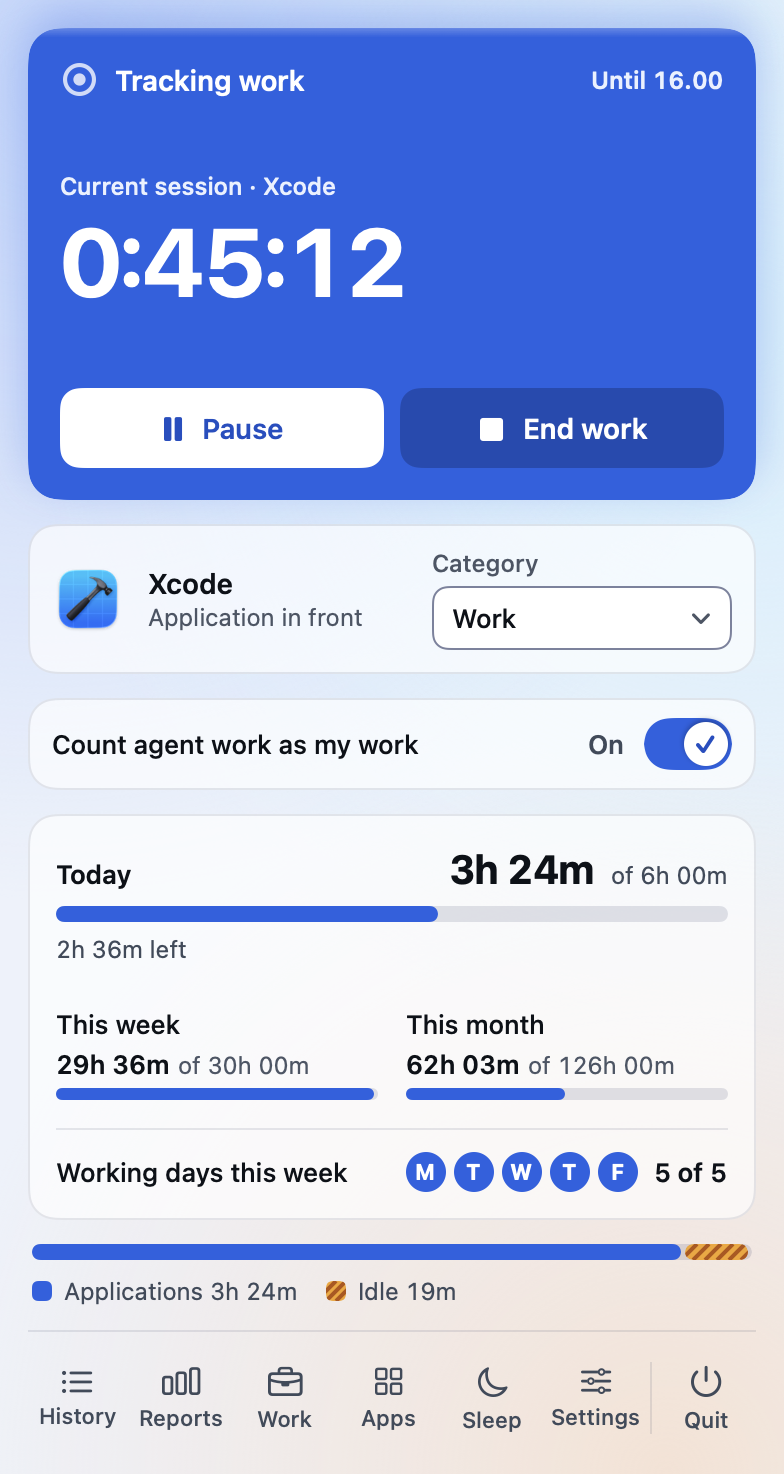
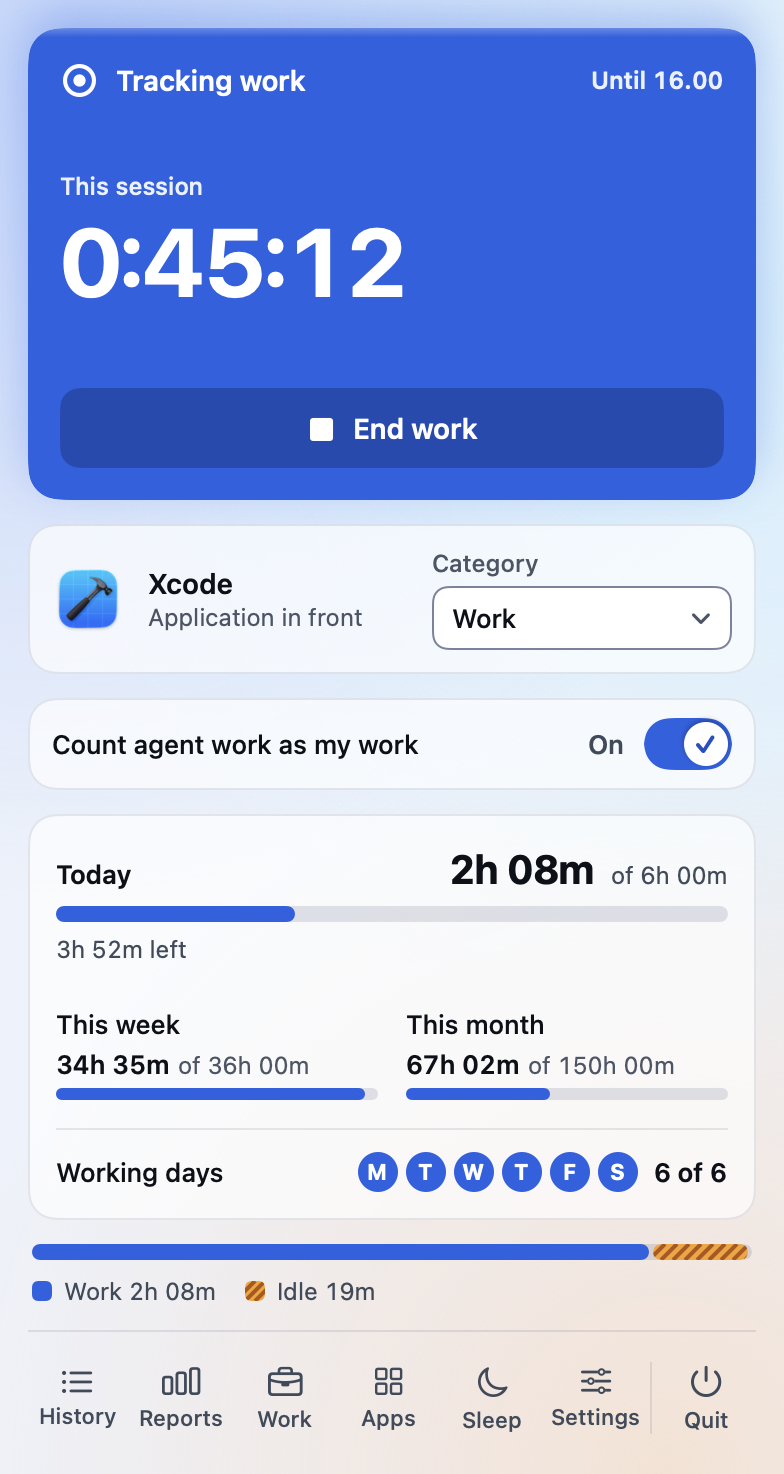
Refresh the README pictures without Pause
- popover.png and states.png show "This session" and one End work button;
  the alt texts follow (eight status cards).
- demo-data.py --weekend makes Saturday a work day, so the pictures can be
  made on a weekend with a TZ where it is morning.
- The demo overtime card shows 42 minutes after a 16.00 end (snapshots only).

diff --git a/Sources/WorkPulse/Snapshots.swift b/Sources/WorkPulse/Snapshots.swift
@@ -89,7 +89,15 @@ extension AppModel {
             isOvertime = overtime
             agentWorking = agent
             suggestion = ask ? Suggestion(app: "Xcode", minutes: 12) : nil
+            // The overtime card as it looks after work hours: 42 minutes after a 16.00 end.
+            let saved = (workHoursEnd, lastWorkHoursEnd, summary.overtime)
+            if overtime {
+                workHoursEnd = nil
+                lastWorkHoursEnd = Calendar.current.date(bySettingHour: 16, minute: 0, second: 0, of: Date())
+                summary.overtime = 42 * 60
+            }
             heroes.append(hero)
+            (workHoursEnd, lastWorkHoursEnd, summary.overtime) = saved
         }
         summary.sessionWork = 2712
         idleSince = Date().addingTimeInterval(-900)

diff --git a/scripts/demo-data.py b/scripts/demo-data.py
@@ -10,14 +10,18 @@ writes <folder>/demo-data (a WorkPulse data folder with 75 days of sample sessio
         .build/debug/WorkPulse --snapshot <folder>/out
 
 Run both commands during the work hours of a work day (08.00 to 16.00, Monday to Friday),
-or give both the same TZ, for example TZ=America/Phoenix.
+or give both the same TZ, for example TZ=America/Phoenix. On a weekend everywhere, add --weekend:
+Saturday is then a work day too, so the pictures can be made with a TZ where it is morning.
 
 With --holiday, today is a holiday that WorkPulse did not know: work from 08.00 to 10.00, then
 Safari. Render it with WORKPULSE_DEMO_APP="com.apple.Safari:Safari" for the day-off pictures.
 """
 import sqlite3, os, sys, json, time, datetime, shutil
 holiday = '--holiday' in sys.argv
-args = [a for a in sys.argv[1:] if a != '--holiday']
+weekend = '--weekend' in sys.argv
+args = [a for a in sys.argv[1:] if a not in ('--holiday', '--weekend')]
+work_days = [2, 3, 4, 5, 6, 7] if weekend else [2, 3, 4, 5, 6]
+work_mask = sum(1 << (d - 1) for d in work_days)
 if len(args) != 1:
     sys.exit(__doc__)
 root = args[0]
@@ -81,9 +85,9 @@ days_off = [{"from": index(datetime.date(year, 12, 24)), "to": index(datetime.da
             {"from": index(datetime.date(year, 12, 25)), "to": index(datetime.date(year, 12, 25)), "name": "Christmas Day"},
             {"from": index(datetime.date(year, 12, 29)), "to": index(datetime.date(year, 12, 31)), "name": "Leave"},
             {"from": index(datetime.date(year + 1, 1, 1)), "to": index(datetime.date(year + 1, 1, 1)), "name": "New Year's Day"}]
-db.execute("INSERT INTO goals(effective_from, daily_hours, min_day_minutes, working_days) VALUES (?,?,?,?)", (epoch_day - 90, 6, 30, 62))
+db.execute("INSERT INTO goals(effective_from, daily_hours, min_day_minutes, working_days) VALUES (?,?,?,?)", (epoch_day - 90, 6, 30, work_mask))
 settings = {"onboarded": True, "profile": "work",
-            "schedule": {"enabled": True, "days": [2, 3, 4, 5, 6], "startMinutes": 480, "endMinutes": 960,
+            "schedule": {"enabled": True, "days": work_days, "startMinutes": 480, "endMinutes": 960,
                          "daysOff": days_off},
             "sleep": {"enabled": True, "bedtimeMinutes": 23 * 60, "leadMinutes": 30, "days": [1, 2, 3, 4, 5, 6, 7]},
             "lastBackupDay": epoch_day, "firstWeekday": 2}

diff --git a/README.md b/README.md
@@ -8,7 +8,7 @@ A menu bar app for macOS that counts your work time and tells you when you can s
 Everything stays on your Mac.
 
 <p align="center">
-  <img src="docs/images/popover.png" width="392" alt="The WorkPulse popover: Tracking work, current session 0:45:12 in Xcode, today 2h 41m of 6h 00m">
+  <img src="docs/images/popover.png" width="392" alt="The WorkPulse popover: Tracking work, this session 0:45:12, End work, today 2h 07m of 6h 00m">
 </p>
 
 ## What it does
@@ -29,7 +29,7 @@ Everything stays on your Mac.
 Each status has its own colour, icon and sentence, so you never read the status from colour alone.
 
 <p align="center">
-  <img src="docs/images/states.png" width="760" alt="Nine status cards: Tracking work, Agent working, Overtime, Active non-work, Idle, Paused, Personal, Personal with the question Is this work?, Ignored application">
+  <img src="docs/images/states.png" width="760" alt="Eight status cards: Tracking work, Agent working, Overtime, Active non-work, Idle, Personal, Personal with the question Is this work?, Ignored application">
 </p>
 
 Set your work hours on a 24-hour dial. The daily goal cannot be longer than your work hours.
